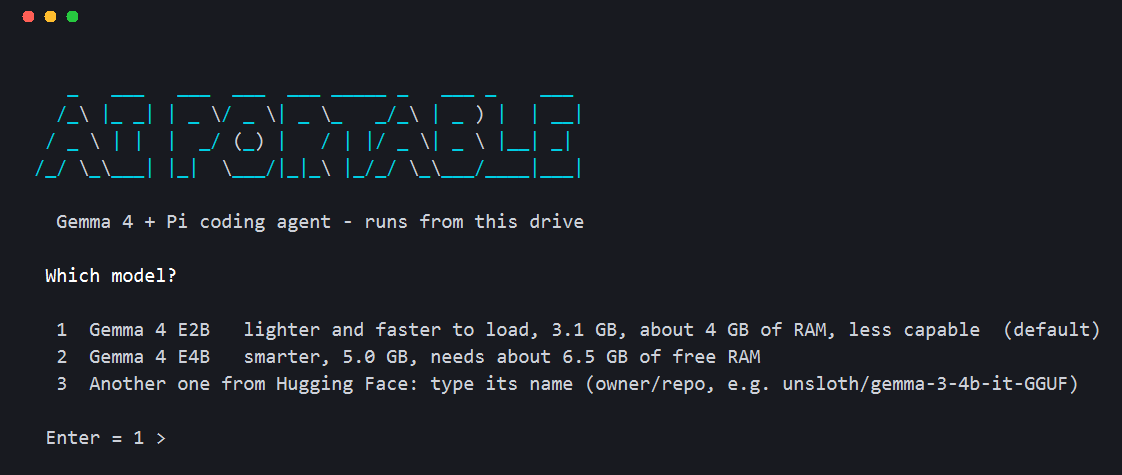
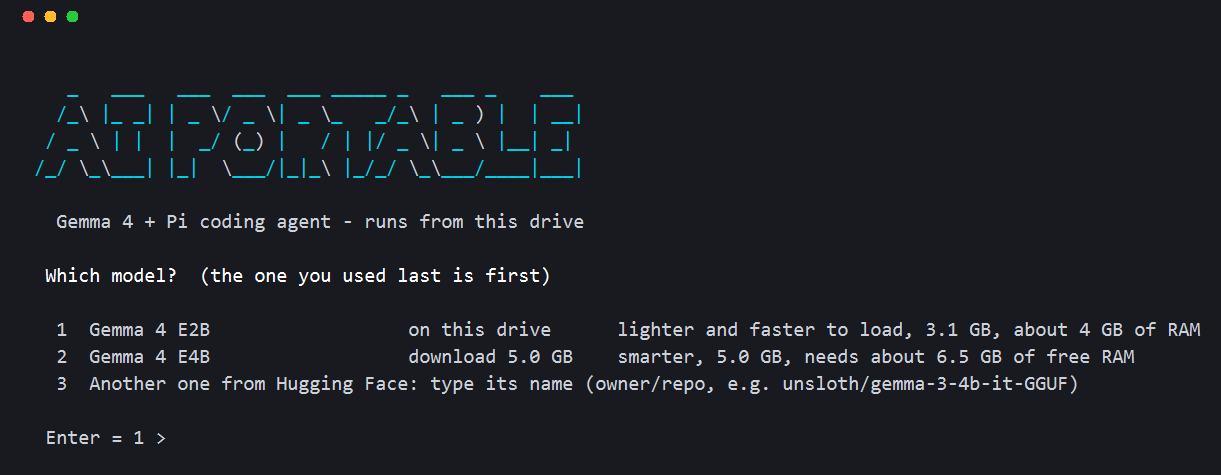
Ask for the model on every start (ordered by last use, new downloads listed); folder window waits for you

diff --git a/README.md b/README.md
@@ -55,17 +55,18 @@ Close the window to stop everything. Dropping a folder onto `Start` skips the fo
 
 ## Choosing the model
 
-The first start asks which model to use:
+Every start asks which model to use. The list is ordered by **last used** (the one you used last is number 1, so Enter picks it), and it shows what is already on the drive and what can be downloaded:
 
-| | Model | Size | RAM | |
-|---|---|---|---|---|
-| 1 | Gemma 4 **E2B** (Q4_K_M) | 3.1 GB | about 4 GB | lighter, faster to load, less capable (**default**) |
-| 2 | Gemma 4 **E4B** (Q4_K_M) | 5.0 GB | about 6.5 GB | smarter |
-| 3 | **Any GGUF model on Hugging Face** | - | about 1.3 x file size | type its name as `owner/repo`, then pick a file |
+```
+   1  Gemma 4 E2B       on this drive    lighter and faster to load, about 4 GB of RAM, less capable
+   2  Gemma 4 E4B       download 5.0 GB  smarter, needs about 6.5 GB of free RAM
+   3  Another one from Hugging Face: type its name (owner/repo)
+```
 
-The choice is saved in `home\model.txt`. To change it later, delete that file and start again; you are asked again and the new model is downloaded if it is missing. Several models can sit in `models\` side by side.
-
-For option 3 the file size and SHA-256 are taken from Hugging Face and checked after the download. Use a model with a chat template (an "it" / instruct model) and a single `.gguf` file; multi-part files are not offered.
+- **E2B** (3.1 GB) is the default on a first start; **E4B** (5.0 GB) is smarter but needs more RAM.
+- **Any GGUF model on Hugging Face:** type its name as `owner/repo` (or pick the last line and type it), then choose a file. Its size and SHA-256 are taken from Hugging Face and checked after the download. Use an instruct ("it") model with a chat template and a single `.gguf` file; multi-part files are not offered.
+- A model you download this way is remembered and appears in the list from then on. A `.gguf` file you copy into `models\` by hand is listed too.
+- The list and the order are kept in `home\models.json`.
 
 ## System requirements
 
